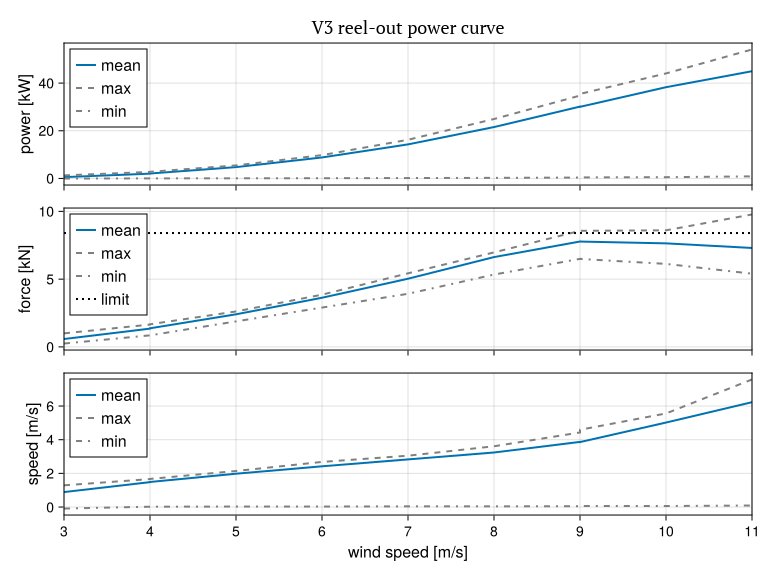
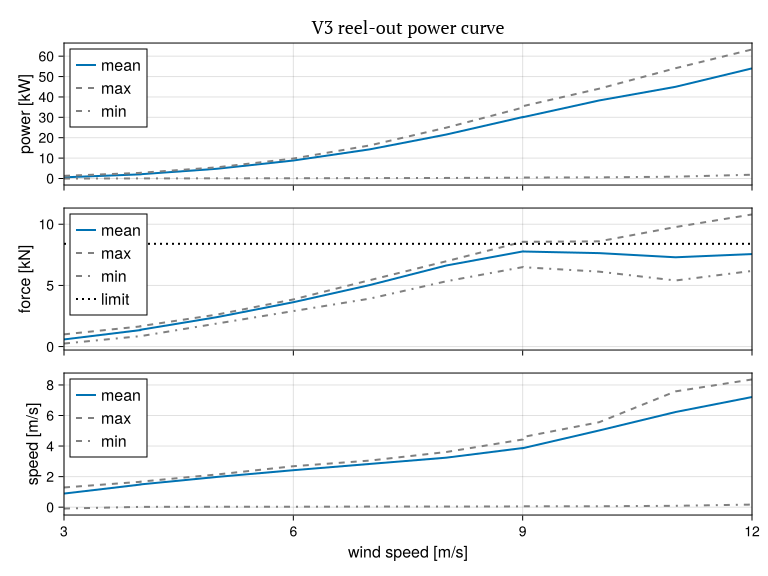
Works fine up to 12 m/s ground wind speed

diff --git a/notebooks/overview.md b/notebooks/overview.md
@@ -11,3 +11,4 @@
 | 2026-08-26 | 09:14:49 | 9.0 | 0.96 | 171.0 | 2.67 | 5 | 4 | 30037 | 446 | 35457 | 6490 | 7772 | 8563 | 0.06 | 3.86 | 4.59 | 0.27 |
 | 2026-08-26 | 10:19:25 | 10.0 | 0.96 | 158.7 | 3.44 | 4 | 4 | 38274 | 542 | 44043 | 6125 | 7639 | 8601 | 0.06 | 5.02 | 5.56 | 0.271 |
 | 2026-08-26 | 11:05:31 | 11.0 | 0.94 | 62.3 | 4.27 | 3 | 2 | 44975 | 880 | 54099 | 5402 | 7299 | 9771 | 0.09 | 6.23 | 7.58 | 0.272 |
+| 2026-08-26 | 11:43:25 | 12.0 | 0.93 | 45.2 | 3.72 | 2 | 2 | 54016 | 1844 | 63298 | 6183 | 7561 | 10799 | 0.17 | 7.21 | 8.36 | 0.273 |
